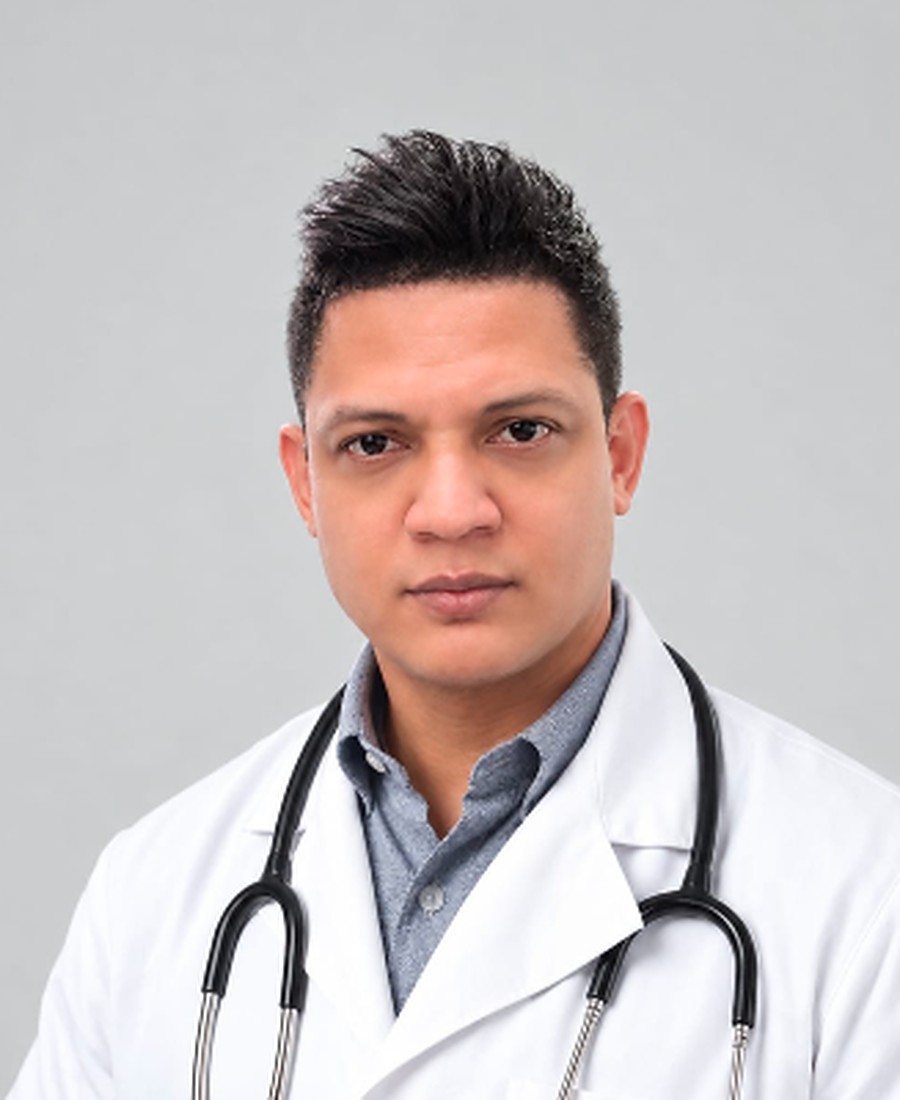
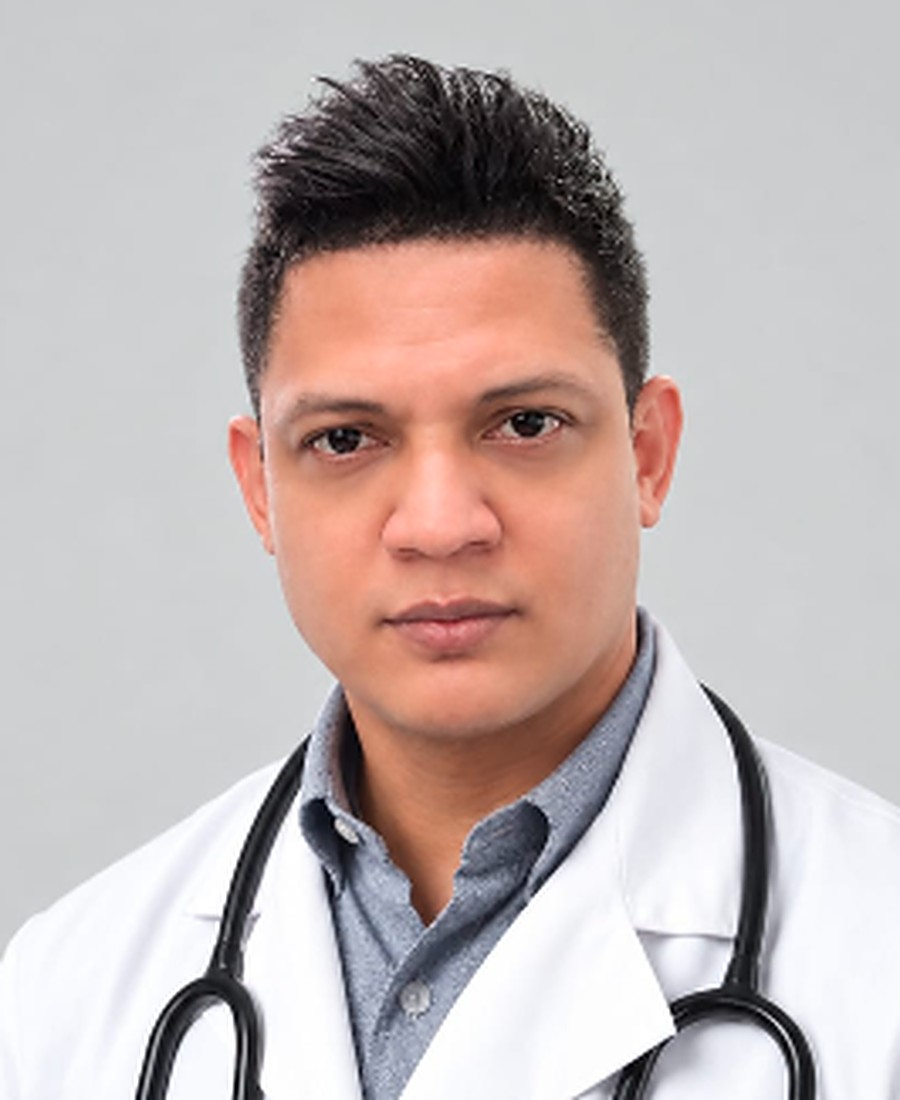
Horarios en blanco hasta que cada médico los cargue; sin matrícula; cards de médicos alineadas con degradé por especialidad
Claude-Session: https://claude.ai/code/session_016R64V7uaqYCdZkecYCgYW8

diff --git a/src/routes/especialistas.$id.tsx b/src/routes/especialistas.$id.tsx
@@ -49,7 +49,6 @@ function PerfilDoctor() {
           <div className="space-y-3 rounded-3xl border border-border bg-card p-6 shadow-card">
             <p className="flex items-center gap-3 text-sm"><span className="flex size-9 items-center justify-center rounded-xl bg-secondary text-primary"><Stethoscope className="size-4" /></span>{agenda.consultorio || doctor.consultorio}</p>
             <p className="flex items-center gap-3 text-sm"><span className="flex size-9 shrink-0 items-center justify-center rounded-xl bg-secondary text-primary"><CalendarDays className="size-4" /></span>{resumenAgenda(agenda)}</p>
-            <p className="flex items-center gap-3 text-sm"><span className="flex size-9 items-center justify-center rounded-xl bg-secondary text-primary"><GraduationCap className="size-4" /></span>Matrícula {doctor.matricula}</p>
             <Button asChild className="btn-glow mt-2 h-12 w-full rounded-xl"><Link to="/turnos" search={{ doctor: doctor.id }}><CalendarPlus className="size-4" /> Solicitar turno</Link></Button>
             <Button asChild variant="outline" className="h-11 w-full rounded-xl">
               <a href={waLink(`Hola, quiero un turno con ${doctor.nombre}.`)} target="_blank" rel="noreferrer"><MessageCircle className="size-4" /> WhatsApp</a>
@@ -61,8 +60,8 @@ function PerfilDoctor() {
           <div className="overflow-hidden rounded-3xl border border-border bg-card shadow-card">
             <div className="flex flex-wrap items-center justify-between gap-3 gradient-deep px-7 py-5 text-white">
               <h2 className="flex items-center gap-2 font-sans text-lg font-semibold text-white"><CalendarDays className="size-5" /> Días y horarios de atención</h2>
-              <span className={`inline-flex items-center gap-2 rounded-full px-3 py-1 text-xs font-semibold ${agenda.activo ? "bg-emerald-400/20 text-emerald-100" : "bg-white/15 text-white/80"}`}>
-                <span className={`size-2 rounded-full ${agenda.activo ? "bg-emerald-400" : "bg-white/60"}`} /> {agenda.activo ? "Agenda abierta" : "Agenda pausada"}
+              <span className={`inline-flex items-center gap-2 rounded-full px-3 py-1 text-xs font-semibold ${agenda.activo && agenda.dias.length ? "bg-emerald-400/20 text-emerald-100" : "bg-white/15 text-white/80"}`}>
+                <span className={`size-2 rounded-full ${agenda.activo && agenda.dias.length ? "bg-emerald-400" : "bg-white/60"}`} /> {!agenda.activo ? "Agenda pausada" : agenda.dias.length ? "Agenda abierta" : "Horarios a confirmar"}
               </span>
             </div>
             <div className="space-y-5 p-7">
@@ -73,7 +72,11 @@ function PerfilDoctor() {
                   </span>
                 ))}
               </div>
-              <p className="text-sm text-muted-foreground">{resumenAgenda(agenda)} · turnos de {agenda.duracion} minutos · {horariosDelDia(agenda).length} turnos por día</p>
+              {agenda.dias.length === 0 ? (
+                <p className="rounded-xl bg-secondary/70 px-4 py-3 text-sm text-muted-foreground">Los días y horarios de atención se publicarán próximamente. Mientras tanto, podés consultar por WhatsApp.</p>
+              ) : (
+                <p className="text-sm text-muted-foreground">{resumenAgenda(agenda)} · turnos de {agenda.duracion} minutos · {horariosDelDia(agenda).length} turnos por día</p>
+              )}
               {agenda.nota && <p className="rounded-xl bg-amber-50 px-4 py-2.5 text-sm text-amber-800 ring-1 ring-amber-100">{agenda.nota}</p>}
               {ausente && <p className="rounded-xl bg-rose-50 px-4 py-2.5 text-sm text-rose-700 ring-1 ring-rose-100">No atiende del {ausente.desde.split("-").reverse().join("/")} al {ausente.hasta.split("-").reverse().join("/")} ({ausente.motivo}).</p>}
               {proximos.length > 0 && (

diff --git a/src/routes/index.tsx b/src/routes/index.tsx
@@ -25,7 +25,7 @@ import {
   Waves,
 } from "lucide-react";
 import { Button } from "@/components/ui/button";
-import { PublicLayout } from "@/components/site/PublicLayout";
+import { PublicLayout, FondoDoctor } from "@/components/site/PublicLayout";
 import { DOCTORS, ESPECIALIDADES, SERVICIOS, imagenEspecialidad } from "@/data/clinic";
 import heroDoctors from "@/assets/hero-doctors.jpg";
 import imgInterna from "@/assets/medicina-interna.jpg";
@@ -528,7 +528,7 @@ function Home() {
           </div>
           <div className="grid gap-12 md:grid-cols-2 lg:gap-16">
             {DOCTORS.map((d, idx) => (
-              <article key={d.id} data-reveal style={{ transitionDelay: `${idx * 140}ms` }} className={`group ${idx === 1 ? "md:mt-16" : ""}`}>
+              <article key={d.id} data-reveal style={{ transitionDelay: `${idx * 140}ms` }} className="group">
                 <div className="relative h-[440px] overflow-hidden rounded-[2rem] shadow-[0_50px_90px_-50px_rgba(10,25,70,.85)] ring-1 ring-black/5 sm:h-[520px]">
                   <img
                     src={d.foto === "alberto" ? fotoAlberto : fotoAlonso}
@@ -538,10 +538,9 @@ function Home() {
                     loading="lazy"
                     className="size-full object-cover object-top transition-transform duration-[1400ms] ease-out group-hover:scale-105"
                   />
-                  <div className="absolute inset-0 bg-gradient-to-t from-[oklch(0.15_0.05_262)] via-[oklch(0.15_0.05_262/0.25)] to-transparent" />
-                  <span className="glass absolute left-6 top-6 rounded-full px-3 py-1 text-[11px] font-medium text-white">{d.matricula}</span>
+                  <FondoDoctor foto={d.foto} />
                   <div className="absolute inset-x-0 bottom-0 p-7 text-white sm:p-8">
-                    <p className="text-xs font-semibold uppercase tracking-[0.18em] text-sky-200/90">{d.titulo}</p>
+                    <p className={`text-xs font-semibold uppercase tracking-[0.18em] ${d.foto === "alonso" ? "text-rose-200" : "text-sky-200"}`}>{d.titulo}</p>
                     <h3 className="mt-2 font-display text-3xl font-semibold leading-tight">{d.nombre}</h3>
                     <div className="mt-4 flex flex-wrap gap-1.5">
                       {d.especialidades.map((esp) => (

diff --git a/src/components/site/PublicLayout.tsx b/src/components/site/PublicLayout.tsx
@@ -8,6 +8,8 @@ import { Crumbs } from "./Crumbs";
 import { CLINICA } from "@/data/clinic";
 
 import logoClinica from "@/assets/logo.png";
+import fondoCorazonDoc from "@/assets/fondo-corazon.jpg";
+import fondoRinonesDoc from "@/assets/fondo-rinones.jpg";
 const LINKS = [
   { to: "/", label: "Inicio" },
   { to: "/nosotros", label: "Nosotros" },
@@ -63,6 +65,32 @@ export function Brand({ light = false }: { light?: boolean }) {
 }
 
 /* Encabezado premium para páginas internas */
+/**
+ * Degradé inferior de la foto de cada profesional, con el color e ilustración de su especialidad:
+ * corazón (rojo) para el cardiólogo y riñones (azul) para el nefrólogo.
+ */
+export function FondoDoctor({ foto, suave = false }: { foto: string; suave?: boolean }) {
+  const cardio = foto === "alonso";
+  return (
+    <>
+      <img
+        src={cardio ? fondoCorazonDoc : fondoRinonesDoc}
+        alt=""
+        aria-hidden="true"
+        className={`pointer-events-none absolute inset-x-0 bottom-0 h-[38%] w-full object-cover mix-blend-luminosity [mask-image:linear-gradient(to_top,#000_30%,transparent)] ${suave ? "opacity-20" : "opacity-30"}`}
+      />
+      <div
+        className="pointer-events-none absolute inset-0"
+        style={{
+          background: cardio
+            ? `linear-gradient(to top, rgba(76,10,24,${suave ? 0.75 : 0.95}) 0%, rgba(127,29,29,${suave ? 0.35 : 0.55}) 28%, transparent 55%)`
+            : `linear-gradient(to top, rgba(8,30,70,${suave ? 0.75 : 0.95}) 0%, rgba(3,105,161,${suave ? 0.35 : 0.55}) 28%, transparent 55%)`,
+        }}
+      />
+    </>
+  );
+}
+
 export function PageHero({
   kicker,
   title,

diff --git a/src/routes/nosotros.tsx b/src/routes/nosotros.tsx
@@ -1,7 +1,7 @@
 import { createFileRoute, Link } from "@tanstack/react-router";
 import { Activity, ArrowRight, CalendarPlus, Check, Compass, Eye, Gauge, HeartHandshake, HeartPulse, Lightbulb, Quote, Scale, ShieldCheck, Smile, Sparkles, Stethoscope, Target, TrendingUp, Waves, Zap } from "lucide-react";
 import { Button } from "@/components/ui/button";
-import { PageHero, PublicLayout, useReveal } from "@/components/site/PublicLayout";
+import { PageHero, PublicLayout, useReveal, FondoDoctor } from "@/components/site/PublicLayout";
 import { DOCTORS } from "@/data/clinic";
 import heroDoctors from "@/assets/hero-doctors.jpg";
 import fotoAlberto from "@/assets/doctor-alberto.jpg";
@@ -289,7 +289,7 @@ function Nosotros() {
               className="group relative h-[600px] overflow-hidden rounded-[2rem] shadow-[0_50px_90px_-50px_rgba(10,25,70,.85)] ring-1 ring-black/5"
             >
               <img src={d.foto === "alberto" ? fotoAlberto : fotoAlonso} alt={d.nombre} loading="lazy" className="absolute inset-0 size-full object-cover object-top transition-transform duration-[1400ms] group-hover:scale-105" />
-              <div className="absolute inset-0 bg-gradient-to-t from-[oklch(0.15_0.05_262)] via-[oklch(0.15_0.05_262/0.55)] via-25% to-transparent to-50%" />
+              <FondoDoctor foto={d.foto} />
               <div className="absolute inset-x-0 bottom-0 p-8 text-white">
                 <p className="text-xs font-semibold uppercase tracking-[0.18em] text-sky-200/90">{d.titulo}</p>
                 <h3 className="mt-2 font-display text-3xl font-semibold">{d.nombre}</h3>

diff --git a/src/routes/especialistas.index.tsx b/src/routes/especialistas.index.tsx
@@ -1,7 +1,7 @@
 import { createFileRoute, Link } from "@tanstack/react-router";
 import { ArrowUpRight, Award, CalendarPlus, CheckCircle2, Clock, GraduationCap } from "lucide-react";
 import { Button } from "@/components/ui/button";
-import { PageHero, PublicLayout, useReveal } from "@/components/site/PublicLayout";
+import { PageHero, PublicLayout, useReveal, FondoDoctor } from "@/components/site/PublicLayout";
 import { DOCTORS, fotoDoctor } from "@/data/clinic";
 import { KEY_AGENDA, agendaDe, resumenAgenda, useDato, type Agendas } from "@/lib/auth-local";
 
@@ -38,8 +38,7 @@ function Especialistas() {
           >
             <div className={`relative min-h-80 overflow-hidden ${i % 2 ? "md:order-2" : ""}`}>
               <img src={fotoDoctor(d.foto)} alt={d.nombre} loading="lazy" className="absolute inset-0 size-full object-cover object-top transition-transform duration-1000 group-hover:scale-105" />
-              <div className="absolute inset-0 bg-gradient-to-t from-deep/70 via-transparent to-transparent" />
-              <span className="glass absolute bottom-4 left-4 rounded-full px-3 py-1 text-xs font-medium text-white">{d.matricula}</span>
+              <FondoDoctor foto={d.foto} suave />
             </div>
             <div className="space-y-6 p-7 md:p-10">
               <div>

diff --git a/src/lib/auth-local.ts b/src/lib/auth-local.ts
@@ -256,7 +256,7 @@ export const NOMBRES_DIA = ["Domingo", "Lunes", "Martes", "Miércoles", "Jueves"
 
 const agendaBase = (consultorio: string): AgendaDoctor => ({
   activo: true,
-  dias: [1, 2, 3, 4, 5],
+  dias: [], // en blanco: cada médico carga sus días y horarios desde el panel
   desde: "08:00",
   hasta: "18:40",
   duracion: 40,
@@ -327,6 +327,7 @@ export function proximosDias(a: AgendaDoctor, cantidad = 15): string[] {
 /** Texto corto tipo "Lun a Vie · 08:00 a 18:40". */
 export function resumenAgenda(a: AgendaDoctor): string {
   if (!a.activo) return "Agenda pausada momentáneamente";
+  if (a.dias.length === 0) return "Horarios a confirmar";
   const d = [...a.dias].sort((x, y) => ((x + 6) % 7) - ((y + 6) % 7));
   const corto = (n: number) => NOMBRES_DIA[n]!.slice(0, 3);
   const seguidos = d.length > 2 && d.every((v, i) => i === 0 || ((v + 6) % 7) - ((d[i - 1]! + 6) % 7) === 1);

diff --git a/src/routes/turnos.tsx b/src/routes/turnos.tsx
@@ -270,7 +270,7 @@ function Turnos() {
                         <div className="min-w-0">
                           <p className="font-semibold leading-tight">{d.nombre}</p>
                           <p className="mt-1 text-xs text-primary">{d.titulo}</p>
-                          <p className="mt-2 text-xs text-muted-foreground">{d.consultorio} · {d.matricula}</p>
+                          <p className="mt-2 text-xs text-muted-foreground">{d.consultorio}</p>
                           <p className="mt-1 text-xs text-muted-foreground">{resumenAgenda(agendaDe(agendas, d.foto))}</p>
                         </div>
                         {on && <CheckCircle2 className="ml-auto size-6 shrink-0 text-primary" />}

diff --git a/src/routes/especialidades.$slug.tsx b/src/routes/especialidades.$slug.tsx
@@ -178,7 +178,6 @@ function Detalle() {
                   <div className="min-w-0">
                     <p className="font-semibold leading-tight">{d.nombre}</p>
                     <p className="text-xs text-primary">{d.titulo}</p>
-                    <p className="text-xs text-muted-foreground">MN {d.matricula.replace("MN ", "")}</p>
                   </div>
                   <ArrowRight className="ml-auto size-4 shrink-0 text-muted-foreground transition-transform group-hover:translate-x-1" />
                 </Link>
